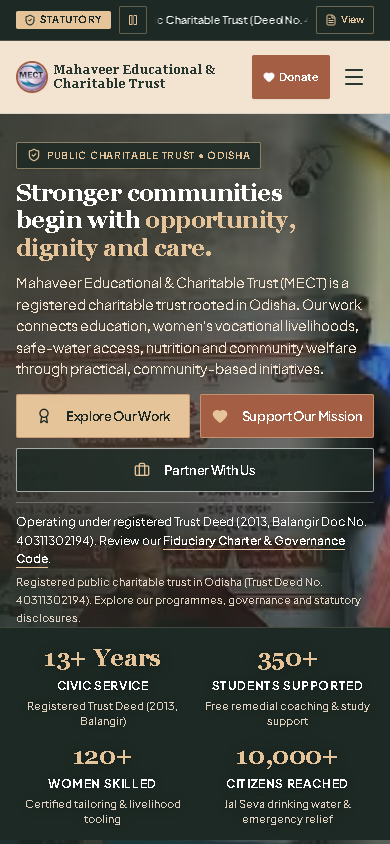
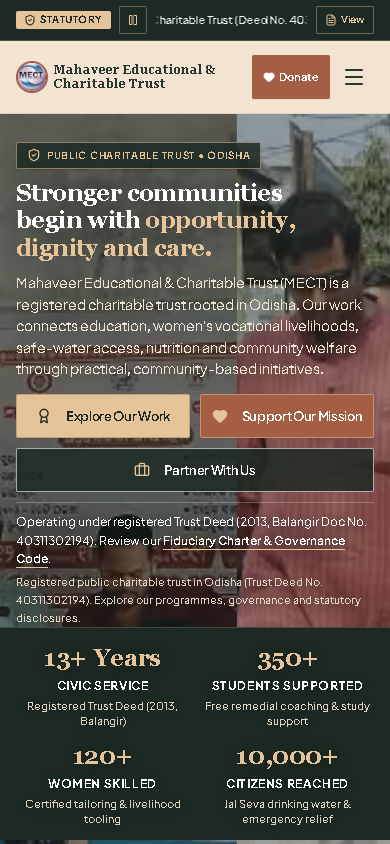
polish(hero): remove mobile feather mask and use even scrim [M-M2]

diff --git a/src/app/page.tsx b/src/app/page.tsx
@@ -238,15 +238,21 @@ export default function HomePage() {
           {/* Layer 0: Full-Bleed Left-to-Right Marquee Behind Hero Copy */}
           <HeroBackgroundMarquee />
 
-          {/* Layer 1: Forest & Subtle Terracotta Cinematic Scrim for Contrast */}
+          {/* Layer 1a: Mobile Even Scrim so full photo stays clearly visible edge-to-edge */}
           <div
             aria-hidden="true"
-            className="block absolute inset-0 z-10 pointer-events-none"
+            className="md:hidden absolute inset-0 z-10 pointer-events-none bg-forest-deep/45"
+          />
+
+          {/* Layer 1b: Desktop Forest & Subtle Terracotta Cinematic Scrim */}
+          <div
+            aria-hidden="true"
+            className="hidden md:block absolute inset-0 z-10 pointer-events-none"
             style={{
               background: [
-                "radial-gradient(ellipse at 16% 34%, rgba(164, 94, 68, 0.16) 0%, transparent 56%)",
-                "linear-gradient(180deg, rgba(29, 41, 36, 0.30) 0%, rgba(29, 41, 36, 0.18) 42%, rgba(29, 41, 36, 0.68) 100%)",
-                "linear-gradient(90deg, rgba(29, 41, 36, 0.68) 0%, rgba(29, 41, 36, 0.46) 45%, rgba(29, 41, 36, 0.18) 76%, rgba(29, 41, 36, 0.14) 100%)",
+                "radial-gradient(ellipse at 16% 34%, rgba(164, 94, 68, 0.18) 0%, transparent 56%)",
+                "linear-gradient(180deg, rgba(29, 41, 36, 0.22) 0%, rgba(29, 41, 36, 0.08) 40%, rgba(29, 41, 36, 0.72) 100%)",
+                "linear-gradient(90deg, rgba(29, 41, 36, 0.72) 0%, rgba(29, 41, 36, 0.52) 42%, rgba(29, 41, 36, 0.18) 72%, rgba(29, 41, 36, 0.14) 100%)",
               ].join(", "),
             }}
           />

diff --git a/src/components/sections/HeroBackgroundMarquee.tsx b/src/components/sections/HeroBackgroundMarquee.tsx
@@ -78,7 +78,7 @@ function DesktopSequence({ isClone = false }: { isClone?: boolean }) {
         <div
           key={`${isClone ? "clone" : "main"}-${slide.id}`}
           data-slide-index={idx}
-          className={`hero-bg-panel hero-bg-panel-feather relative h-full w-[155vw] sm:w-[110vw] md:w-[76vw] lg:w-[68vw] xl:w-[62vw] shrink-0 overflow-hidden ${
+          className={`hero-bg-panel hero-bg-panel-feather relative h-full w-[100vw] sm:w-[92vw] md:w-[76vw] lg:w-[68vw] xl:w-[62vw] shrink-0 overflow-hidden ${
             !isClone && idx > 0 ? "hero-bg-secondary-slide" : ""
           } ${!isClone && idx > 1 ? "hero-bg-extra-slide" : ""}`}
         >
@@ -86,7 +86,7 @@ function DesktopSequence({ isClone = false }: { isClone?: boolean }) {
             src={slide.src}
             alt=""
             fill
-            sizes="(max-width: 639px) 155vw, (max-width: 767px) 110vw, (max-width: 1023px) 76vw, (max-width: 1279px) 68vw, 62vw"
+            sizes="(max-width: 639px) 100vw, (max-width: 767px) 92vw, (max-width: 1023px) 76vw, (max-width: 1279px) 68vw, 62vw"
             loading={idx === 0 || idx === 1 || idx === HERO_BACKGROUND_SLIDES.length - 1 ? "eager" : "lazy"}
             decoding="async"
             priority={!isClone && idx === 0}

diff --git a/src/app/globals.css b/src/app/globals.css
@@ -31,6 +31,13 @@
 
   html {
     scroll-behavior: smooth;
+    scroll-padding-top: 7.25rem;
+  }
+
+  @media (min-width: 1024px) {
+    html {
+      scroll-padding-top: 8rem;
+    }
   }
 
   body {
@@ -177,7 +184,7 @@
 
 /* Floating Action & Chatbot Safe-Area Clearance on Mobile */
 .pb-floating-clearance {
-  padding-bottom: max(7.5rem, calc(env(safe-area-inset-bottom, 20px) + 6rem));
+  padding-bottom: max(6.5rem, calc(env(safe-area-inset-bottom, 20px) + 5rem));
 }
 
 @media (min-width: 1280px) {
@@ -262,7 +269,12 @@ select:focus-visible {
 
 @media (max-width: 767px) {
   .hero-bg-track-ltr {
-    animation-duration: 22s;
+    animation-duration: 24s;
+  }
+  .hero-bg-panel-feather {
+    margin-right: 0;
+    -webkit-mask-image: none;
+    mask-image: none;
   }
 }
 
